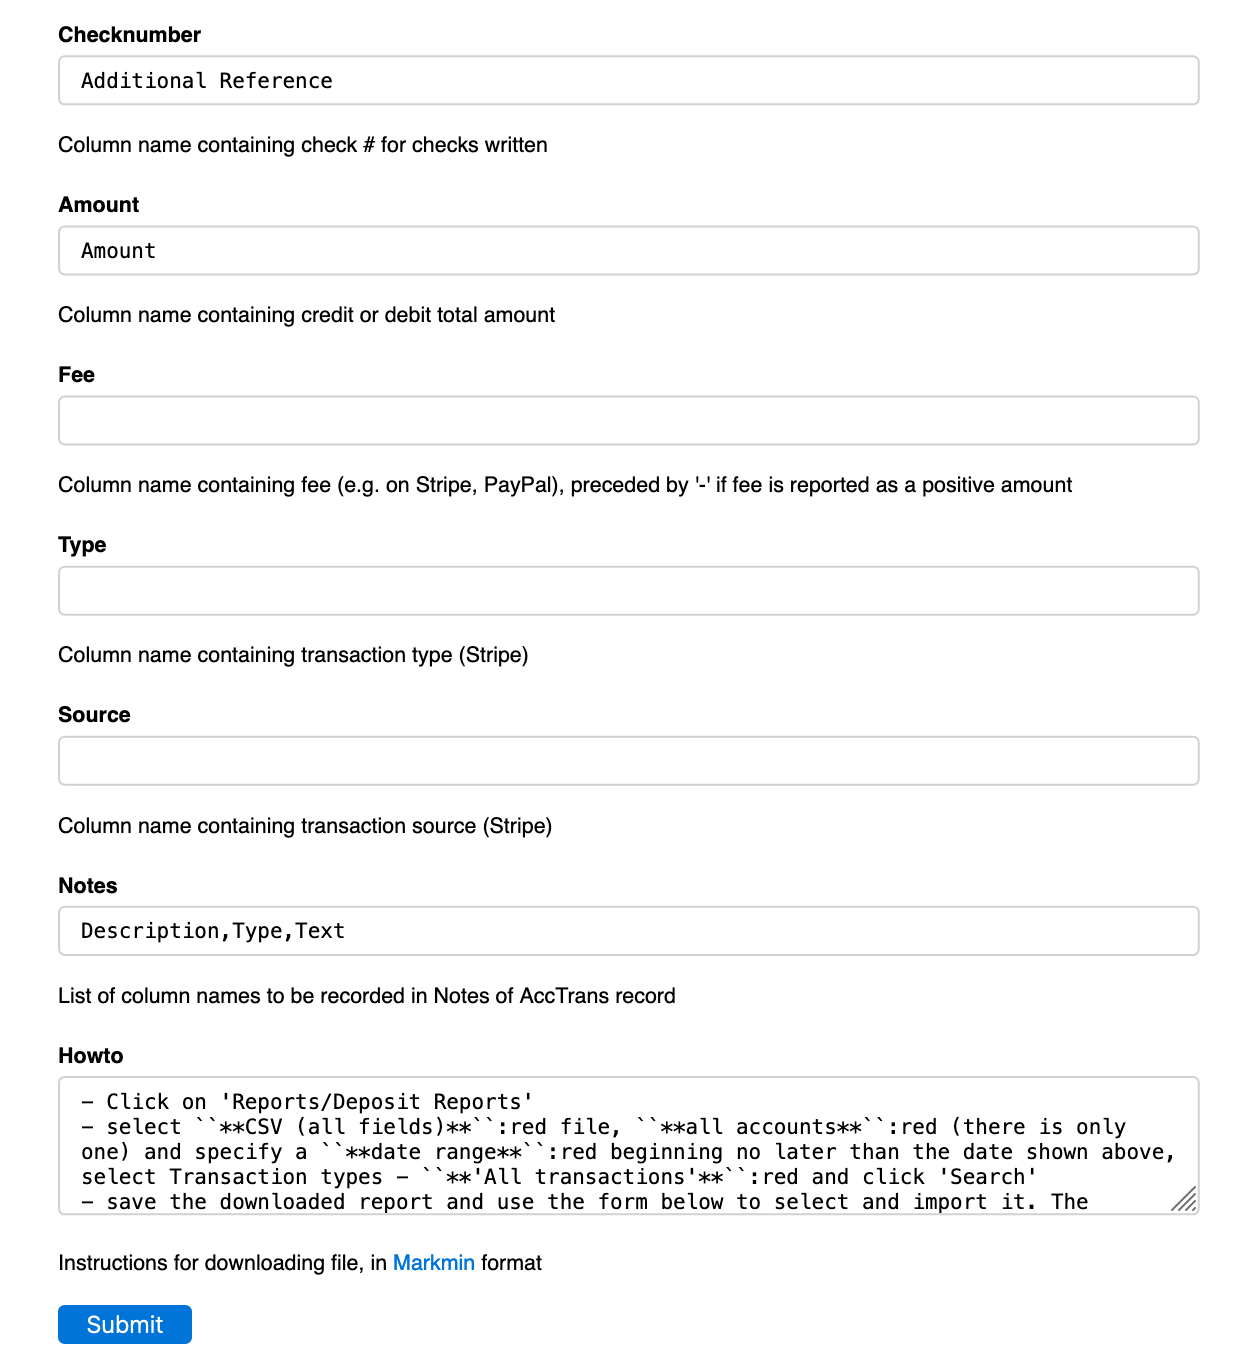
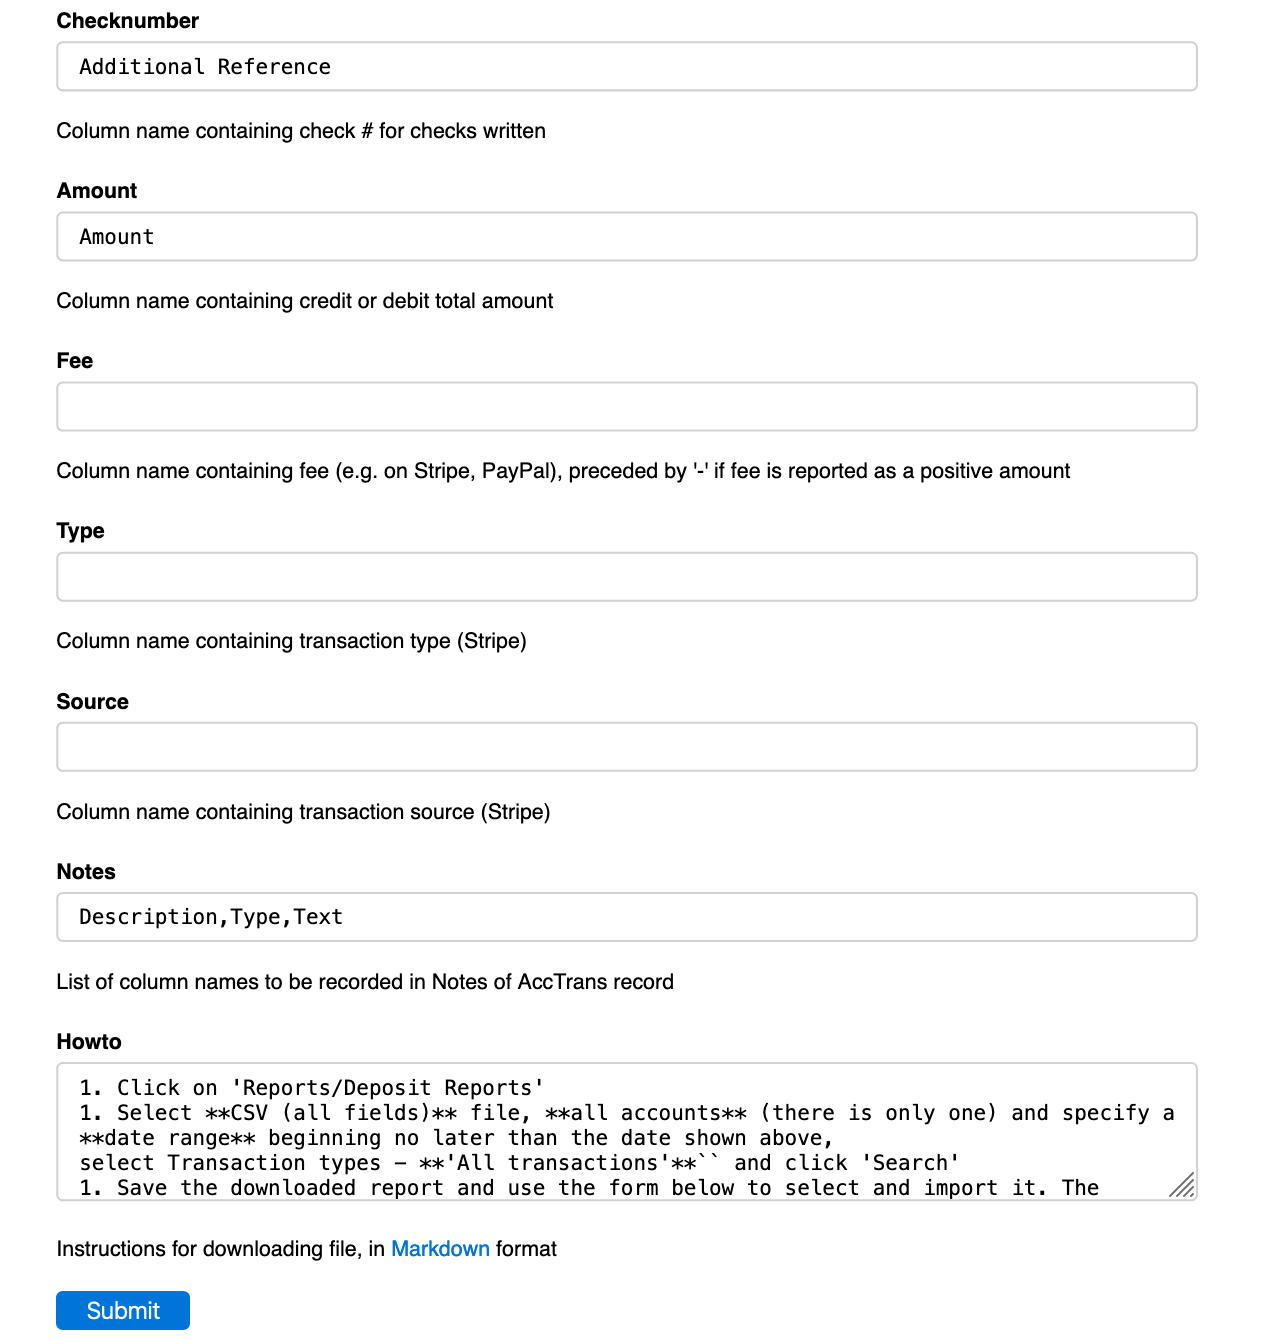
replace markmin with markdown show waiting flag on tickets grid markdown formatting in email

diff --git a/utilities.py b/utilities.py
@@ -7,7 +7,7 @@ from .settings import TIME_ZONE, SUPPORT_EMAIL, LETTERHEAD, GRACE_PERIOD, CURREN
 	DB_URL, SOCIETY_SHORT_NAME, MEMBER_CATEGORIES, DATE_FORMAT, SMTP_TRANS, STRIPE_SKEY, SOCIETY_NAME
 from .models import primary_email, res_tbc, res_totalcost, res_status, member_name
 from yatl.helpers import A, TABLE, TH, THEAD, H6, TR, TD, CAT, HTML, XML
-import datetime, re, markmin, smtplib
+import datetime, re, smtplib, markdown
 from email.message import EmailMessage
 
 #check if member is in good standing at a particular date
@@ -192,39 +192,37 @@ def emailparse(body, subject, query=None):
 		if m.group(3)!='':
 			bodyparts = bodyparts+emailparse(m.group(3), subject, query)
 		return bodyparts
-	return [(body.replace('\r\n', '<br>'), None)]
+	return [(markdown.markdown(body), None)]
 	
 #display member profile
 def member_profile(member):
-	body = '------------------------\n'
-	body += '**Name:**|' + f"{member.Lastname}, {member.Title or ''} {member.Firstname} {member.Suffix or ''}" + '\n'
+	rows=[TR(TH('Name:', _style="text-align:left"), TD( f"{member.Lastname}, {member.Title or ''} {member.Firstname} {member.Suffix or ''}"))]
 	affiliations = db(db.Affiliations.Member == member.id).select(orderby = db.Affiliations.Modified)
-	body += '**Affiliations:**'
+	first = True
 	for aff in affiliations:
-		body += '|' + aff.College.Name + ' ' + str(aff.Matr or '') + '\n'
-	body += '\n**Address line 1:**|' + (member.Address1 or '') + '\n'
-	body += '**Address line 2:**|' + (member.Address2 or '') + '\n'
-	body += '**Town/City:**|' + (member.City or '') + '\n'
-	body += '**State:**|' + (member.State or '') + '\n'
-	body += '**Zip:**|' + (member.Zip or '') + '\n'
-	body += '**Home phone:**|' + (member.Homephone or '') + '\n'
-	body += '**Work phone:**|' + (member.Workphone or '') + '\n'
-	body += '**Mobile:**|' + (member.Cellphone or '') + ' (not in directory)\n'
-	body += '**Email:**|' + (primary_email(member.id) or '') + (' (not in directory)\n' if member.Privacy==True else '\n')
-	body += '------------------------\n'
-	return markmin.markmin2html(body)
+		rows.append(TR(TH('Affiliation:'if first else '', _style="text-align:left"), TD(aff.College.Name + ' ' + str(aff.Matr or ''))))
+		first = False
+	rows.append(TR(TH('Address line 1:', _style="text-align:left"), TD(member.Address1 or '')))
+	rows.append(TR(TH('Address line 2:', _style="text-align:left"), TR(member.Address2 or '')))
+	rows.append(TR(TH('Town/City:', _style="text-align:left"), TD(member.City or '')))
+	rows.append(TR(TH('State:', _style="text-align:left"), TD(member.State or '')))
+	rows.append(TR(TH('Zip:', _style="text-align:left"), TD(member.Zip or '')))
+	rows.append(TR(TH('Home phone:', _style="text-align:left"), TD(member.Homephone or '')))
+	rows.append(TR(TH('Work phone:', _style="text-align:left"), TD(member.Workphone or '')))
+	rows.append(TR(TH('Mobile:', _style="text-align:left"), TD((member.Cellphone or '')+' (not in directory)')))
+	rows.append(TR(TH('Email:', _style="text-align:left"), TD((primary_email(member.id) or '') + (' (not in directory)' if member.Privacy==True else ''))))
+	return TABLE(*rows).__str__()
 
 #Create the header for a member message, such as a confirmation
 def msg_header(member, subject):
-	body = f"\n\n-------------\n{datetime.datetime.now(TIME_ZONE).replace(tzinfo=None).strftime(DATE_FORMAT)}||\n"
-	body += f"{(member.Title or '')+' '}{member.Firstname} {member.Lastname} {member.Suffix or ''}||\n"
+	body = f"\n\n<p>{datetime.datetime.now(TIME_ZONE).replace(tzinfo=None).strftime(DATE_FORMAT)}<br>"
+	body += f"{(member.Title or '')+' '}{member.Firstname} {member.Lastname} {member.Suffix or ''}<br>"
 	if member.Address1:
-		body += f"{member.Address1}||\n"
+		body += f"{member.Address1}\<br>"
 	if member.Address2:
-		body += f"{member.Address2}||\n"
-	body += f"{member.City or ''} {member.State or ''} {member.Zip or ''}||\n"
-	body += '-------------' 
-	return LETTERHEAD.replace('&lt;subject&gt;', subject)+markmin.markmin2html(body)
+		body += f"{member.Address2}<br>"
+	body += f"{member.City or ''} {member.State or ''} {member.Zip or ''}<br></p>"
+	return LETTERHEAD.replace('&lt;subject&gt;', subject)+body
 	
 #sanitize and send invoice or confirm
 def msg_send(member,subject, message):
@@ -236,39 +234,40 @@ def msg_send(member,subject, message):
 #create confirmation of event
 def event_confirm(event_id, member_id, justpaid=0, event_only=False):
 	event = db.Events[event_id]
+	member = db.Members[member_id]
 	resvtns = db((db.Reservations.Event==event_id)&(db.Reservations.Member==member_id)).select(
 					orderby=~db.Reservations.Host|db.Reservations.Lastname|db.Reservations.Firstname)
-	body = '------------------------\n'
-	body += '**Event:**|' + (event.Description or '') + '\n'
-	body += '**Venue:**|' + (event.Venue or '') + '\n'
-	body += '**Date:**|' + event.DateTime.strftime("%A %B %d, %Y") + '\n'
-	body += '**Time:**|' + event.DateTime.strftime("%I:%M%p") + '\n'
-	body += '------------------------\n'
-	if event_only or not resvtns: return markmin.markmin2html(body)
+	rows=[TR(TH('Event:', _style="text-align:left"), TD( f"{member.Lastname}, {member.Title or ''} {member.Firstname} {member.Suffix or ''}"))]
+	rows.append(TR(TH('Venue:', _style="text-align:left"), TD(event.Venue or '')))
+	rows.append(TR(TH('Date:', _style="text-align:left"), TD(event.DateTime.strftime("%A %B %d, %Y"))))
+	rows.append(TR(TH('Time:', _style="text-align:left"), TD(event.DateTime.strftime("%I:%M%p"))))
+	body = TABLE(*rows).__str__()
+	if event_only or not resvtns:
+		return body
 	tbc = res_tbc(member_id, event_id) or 0
 	tbcdues = res_tbc(member_id, event_id, True) or 0
 	cost = res_totalcost(member_id, event_id) or 0
-	body += '------------------------\n'
-	body += '**Name**|**Affiliation**|**Selection**|**Ticket Cost**\n'
+	rows=[TR(TH('Name', TH('Affiliation'), TH('Selection'), TH('Ticket Cost'), TH('')))]
 	for t in resvtns:
-		body += '%s, %s %s %s|'%(t.Lastname, t.Title or '', t.Firstname, t.Suffix or '')
-		body += (t.Affiliation.Name if t.Affiliation else '') +'|'
-		body += (t.Selection or '') + '|'
-		body += f'{CURRENCY_SYMBOL}{t.Unitcost or 0.00:6.2f}|'
-		body += f'``**{res_status(t.id)}**``:red\n' if t.Waitlist or t.Provisional else '\n'
+		rows.append(TR(TD(f"{t.Lastname}, {t.Firstname}",
+						TD(t.Affiliation.Name if t.Affiliation else ''),
+						TD(t.Selection or ''),
+						TD(f'{CURRENCY_SYMBOL}{t.Unitcost or 0.00:6.2f}'),
+						TH(f'{res_status(t.id)}' if t.Waitlist or t.Provisional else '')
+		)))
 	if tbcdues > tbc:
-		body += f'Membership Dues|||{CURRENCY_SYMBOL}{tbcdues - tbc:6.2f}\n'
-	body += f'**Total cost**|||**{CURRENCY_SYMBOL}{cost + tbcdues - tbc:6.2f}**\n'
-	body += f'**Paid**|||**{CURRENCY_SYMBOL}{(resvtns.first().Paid or 0)+(resvtns.first().Charged or 0)+justpaid:6.2f}**\n'
+		rows.append(TR(TH('Membership Dues', _style="text-align:left"), TD(''), TD(''), TH(f'{CURRENCY_SYMBOL}{tbcdues - tbc:6.2f}', _style="text-align:left")))
+	rows.append(TR(TH('Total Cost', _style="text-align:left"), TD(''), TD(''), TH(f'{CURRENCY_SYMBOL}{cost + tbcdues - tbc:6.2f}', _style="text-align:left")))
+	rows.append(TR(TH('Paid', _style="text-align:left"), TD(''), TD(''), TH(f'{CURRENCY_SYMBOL}{(resvtns.first().Paid or 0)+(resvtns.first().Charged or 0)+justpaid:6.2f}', _style="text-align:left")))
 	if tbcdues>justpaid:
-		body += f'**Net amount due**|||**{CURRENCY_SYMBOL}{tbcdues-justpaid:6.2f}**\n'
-	body += '------------------------\n'
+		rows.append(TR(TH('Net amount due', _style="text-align:left"), TD(''), TD(''), TH(f'{CURRENCY_SYMBOL}{tbcdues-justpaid:6.2f}', _style="text-align:left")))
+	body += TABLE(*rows).__str__()
 	if tbcdues>justpaid:
-		body += f"To pay online please visit {DB_URL}/registration/{event_id}"
+		body += f"To pay online please visit {DB_URL}/registration/{event_id}<br>"
 						#scheme=True doesn't pick up the domain in the email_daemon!
 	elif event.Notes and not resvtns[0].Waitlist and not resvtns[0].Provisional:
-		body += '\n\n%s\n'%event.Notes
-	return markmin.markmin2html(body)
+		body += f"<br>{event.Notes}<br>"
+	return body
 
 def society_emails(member_id):
 	return [row['Email'] for row in db((db.Emails.Member == member_id) & \
@@ -278,9 +277,9 @@ def society_emails(member_id):
 def member_greeting(member):
 	if member.Title:
 		title = member.Title[4:] if member.Title.startswith('The ') else member.Title
-		greeting = f"Dear {title} {member.Firstname if title.find('Sir')>=0 else member.Lastname},<br>"
+		greeting = f"Dear {title} {member.Firstname if title.find('Sir')>=0 else member.Lastname},"
 	else:
-		greeting = f"Dear {member.Firstname.partition(' ')[0]},<br>"
+		greeting = f"Dear {member.Firstname.partition(' ')[0]},"
 	return greeting
 
 import hashlib

diff --git a/controllers.py b/controllers.py
@@ -51,7 +51,7 @@ from .session import checkaccess
 from .stripe_interface import stripe_update_email, stripe_update_card, stripe_switched_card,\
 	stripe_get_dues, stripe_process_charge, stripe_cancel_subscription
 from py4web.utils.factories import Inject
-import datetime, re, markmin, csv, decimal, io, pickle
+import datetime, re, csv, decimal, io, pickle, markdown
 from io import StringIO
 
 preferred = action.uses("gridform.html", db, session, flash, Inject(PAGE_BANNER=PAGE_BANNER, HOME_URL=HOME_URL, HELP_URL=HELP_URL))
@@ -715,7 +715,7 @@ def tickets(event_id, path=None):
 
 	grid = Grid(path, db.Event_Tickets.Event==event_id,
 			columns=[db.Event_Tickets.Ticket, db.Event_Tickets.Price, db.Event_Tickets.Qualify, db.Event_Tickets.Count,
-				Column('Sold', lambda t: tickets_sold(event_id, t.Ticket))],
+				db.Event_Tickets.Waiting, Column('Sold', lambda t: tickets_sold(event_id, t.Ticket))],
 			details=not write, create=write, editable=write, deletable=write,
 			validation=validation,
 			grid_class_style=grid_style,
@@ -1165,7 +1165,7 @@ Moving member on/off waitlist will also affect all guests."))
 					host_reservation.update_record(Checkout=None)
 					subject = 'Registration Confirmation'
 					message = msg_header(member, subject)
-					message += '<br><b>Your registration is now confirmed:</b><br>'
+					message += '<b>Your registration is now confirmed:</b><br>'
 					message += event_confirm(event.id, member.id, 0)
 					msg_send(member, subject, message)
 					flash.set('Thank you. Confirmation has been sent by email.')
@@ -1599,9 +1599,9 @@ def bank_file(bank_id):
 
 	header = CAT(A('back', _href=URL('accounting')),
 				H5(f"Upload {bank.Name} Transactions"),
-				XML(f"To download data since {markmin.markmin2html(f'``**{str(bkrecent.Timestamp.date()) if bkrecent else origin}**``:red')}:"), XML('<br>'),
+				XML(markdown.markdown(f"To download data since **{str(bkrecent.Timestamp.date()) if bkrecent else origin}**:")),
 				A('Login to Society Account', _href=bank.Bankurl, _target='blank'), XML('<br>'),
-				XML(f"{markmin.markmin2html(bank.HowTo)}"))
+				XML(f"{markdown.markdown(bank.HowTo)}"))
 	
 	footer = f"Current Balance = {f'{CURRENCY_SYMBOL}{bank.Balance:8.2f}'}"
 	
@@ -1885,8 +1885,8 @@ def composemail():
 	fields.append(Field('body', 'text', requires=IS_NOT_EMPTY(), default=proto.Body if proto else "<letterhead>\n<greeting>\n\n" if query else "<letterhead>\n\n",
 				comment=CAT("You can use placeholders <letterhead>, <subject>, <greeting>, <member>, <reservation>, <email>, ",
 				"<support_email>, <society_short_name>, <society_name>, or <public_url>, depending on the context. ",
-				"You can also include html content thus: {{content}}. Email is formatted using ",
-				A('Markmin', _href='http://www.web2py.com/examples/static/markmin.html', _target='Markmin'), '.')))
+				"You can also include html content thus: {{content}}. Text may be formatted, and images and links included, using ",
+				A('Markdown', _href='https://www.markdownguide.org/basic-syntax/', _target='Markdown'), '.')))
 	fields.append(Field('save', 'boolean', default=proto!=None, comment='store/update template'))
 	fields.append(Field('attachment', 'upload', uploadfield=False))
 	if proto:

diff --git a/models.py b/models.py
@@ -329,7 +329,7 @@ db.define_table('Bank_Accounts',
 	Field('Type', 'string', comment=" Column name containing transaction type (Stripe)"),
 	Field('Source', 'string', comment=" Column name containing transaction source (Stripe)"),	
 	Field('Notes', 'string', comment=" List of column names to be recorded in Notes of AccTrans record"),
-	Field('HowTo', 'text', comment=CAT(" Instructions for downloading file, in ", A("Markmin", _href='http://www.web2py.com/examples/static/markmin.html', _target='markmin'), " format")),
+	Field('HowTo', 'text', comment=CAT(" Instructions for downloading file, in ", A('Markdown', _href='https://www.markdownguide.org/basic-syntax/', _target='Markdown'), " format")),
 	singular="Bank_Account", plural="Banks", format='%(Name)s')
 db.Bank_Accounts.Name.requires = [IS_NOT_EMPTY(), IS_NOT_IN_DB(db, 'Bank_Accounts.Name')]
 

diff --git a/website.py b/website.py
@@ -9,7 +9,7 @@ The actions in this file are pages embedded in the Society's public website
 from py4web import action
 from .common import db
 from yatl.helpers import H5, A, TABLE, TR, TD, CAT, XML
-import datetime, markmin
+import datetime, markdown
 from .models import primary_affiliation
 from .utilities import society_emails
 
@@ -34,7 +34,7 @@ def history():
 @action.uses("message_embed.html", db)
 def about():
 	def oxcamaddr(r):
-		return XML(str(markmin.markmin2html(', '.join(society_emails(r.id))))[3:-4])	#remove <p>...,</p>
+		return XML(str(markdown.markdown(', '.join([f'[{e}](mailto:{e})' for e in society_emails(r.id)])))[3:-4])	#remove <p>...,</p>
 			
 	rows = db(db.Members.Committees.ilike('%advisory%')).select(orderby=db.Members.Lastname|db.Members.Firstname)
 				

diff --git a/stripe_interface.py b/stripe_interface.py
@@ -270,7 +270,7 @@ def stripe_checkout_success():
 		redirect(URL('index'))
 
 	subject = 'Registration Confirmation' if tickets_tbc>0 else 'Thank you for your membership payment'
-	message = f"{msg_header(member, subject)}<br><b>Received: {CURRENCY_SYMBOL}{dues+tickets_tbc}</b><br>"
+	message = f"{msg_header(member, subject)}<b>Received: {CURRENCY_SYMBOL}{dues+tickets_tbc}</b><br>"
 	
 	if dues>0:
 		next = None

diff --git a/docs/send_email.md b/docs/send_email.md
@@ -18,7 +18,7 @@ The Sender field allows you select which address to use if you have multiple rol
 
 The message body can use various metadata elements, such as \<letterhead>,  \<greeting> which include the Society letterhead and a personalized greeting (more or less formal depending on whether the member included a title when joining).  The metadata \<member> is replaced by the member's directory information, and in context \<reservation> will show details of a reservation.
 
-Markmin can  be used to apply some formatting and to include links and graphics. The page includes a link to documentation of markmin. Pairs of curly braces '{{..}}"can be used to embed arbitrary HTML source content copied from web pages.
+Markdown can  be used to apply some formatting and to include links and graphics. The page includes a link to documentation of Markdown. Pairs of curly braces '{{..}}"can be used to embed arbitrary HTML source content copied from web pages.
 
 You can also select a file to be sent as an attachment, such as a PDF, spreadsheet, image or word document.
 

diff --git a/docs/bank_record.md b/docs/bank_record.md
@@ -24,4 +24,4 @@ The **Checknumber**, **Amount**, **Type**, and **Source** fields all specify whi
 
 **Notes** is a list of one or more column names. The contents of these column(s) are concatenated and stored in the transaction record.
 
-**Howto** documents (in [markmin](http://www.web2py.com/examples/static/markmin.html) format) the instructions for downloading transactions from the institution.
+**Howto** documents (in [markdown](https://www.markdownguide.org/basic-syntax/) format) the instructions for downloading transactions from the institution.
